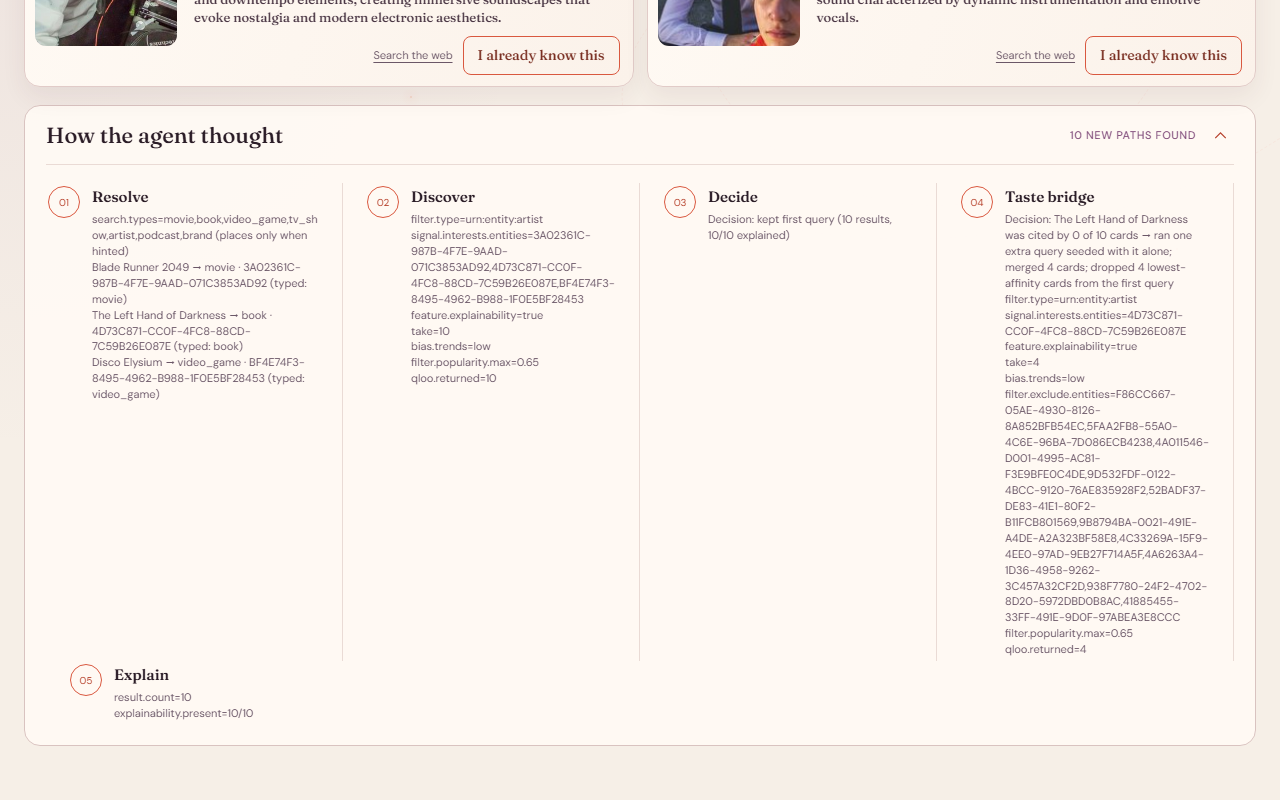
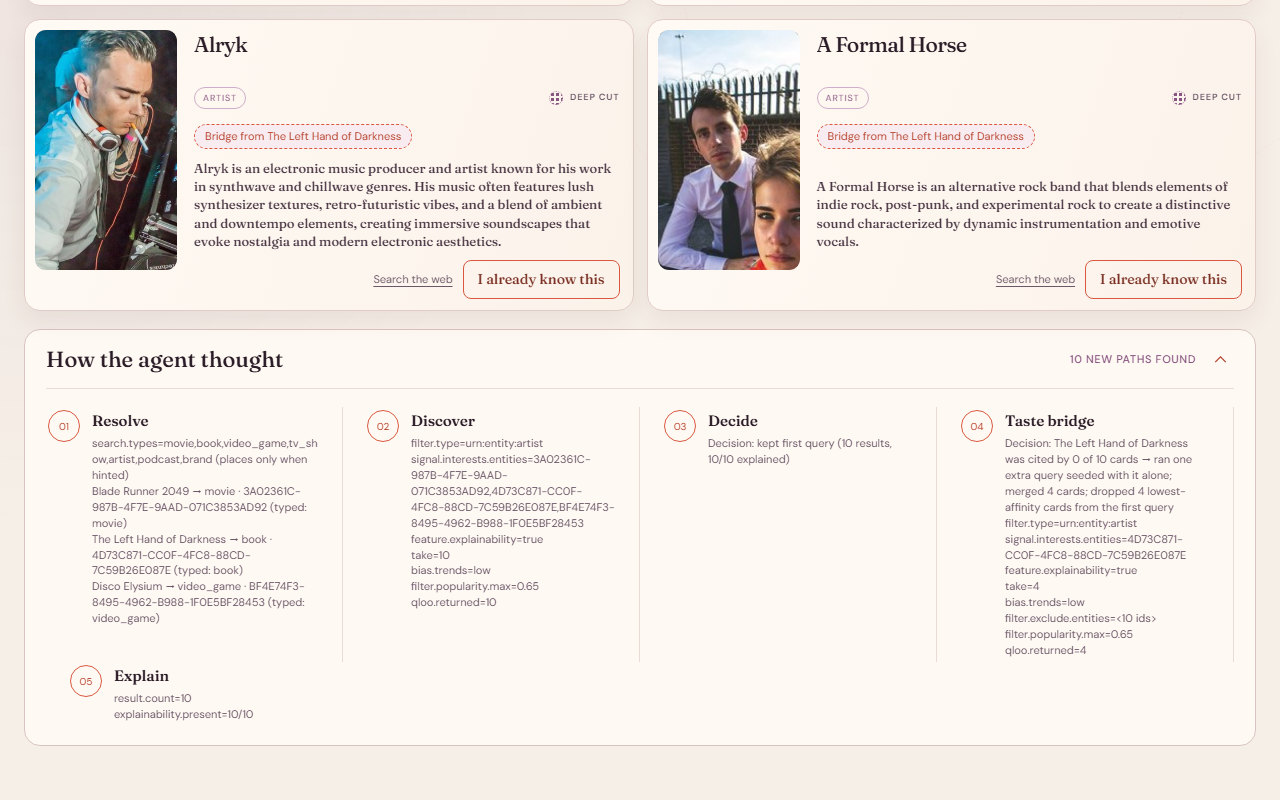
Final live screenshots 02/03 (viewport-sized), README captions
Claude-Session: https://claude.ai/code/session_015bfJDXbxR3fNRPEXQYJQCV

diff --git a/README.md b/README.md
@@ -140,11 +140,11 @@ All four were captured from the live deployment (real Qloo data, "Live Qloo" bad
 
 ![Results with the taste-bridge bar](docs/screenshots/02_results.png)
 
-*Live results at Out of the bubble. The taste-bridge bar shows each input's share of the 10 cards (Blade Runner 6, Left Hand of Darkness 4, Disco Elysium 6); The Left Hand of Darkness is flagged "needed an extra query" because no first-query card cited it, and its 4 cards carry "Bridge from The Left Hand of Darkness" chips. Every card has a Qloo image.*
+*Live results at Out of the bubble. The taste-bridge bar shows each input's share of the 10 cards (Blade Runner 6, Left Hand of Darkness 4, Disco Elysium 6); The Left Hand of Darkness is flagged "needed an extra query" because no first-query card cited it, and its 4 cards carry "Bridge from The Left Hand of Darkness" chips. Every card has a Qloo image. The four bridge cards sit at the bottom of the list (see the next screenshot), below this frame.*
 
 ![How the agent thought](docs/screenshots/03_trace.png)
 
-*The trace panel expanded: Resolve, Discover, Decide (kept first query), Taste bridge (0 of 10 cards cited the book, one extra query with its exact parameters, 4 merged, 4 dropped) and Explain.*
+*The trace panel expanded: Resolve, Discover, Decide (kept first query), Taste bridge (0 of 10 cards cited the book, one extra query with its exact parameters including `filter.exclude.entities=<10 ids>`, 4 merged, 4 dropped) and Explain.*
 
 ![Mobile results](docs/screenshots/04_mobile.png)
 
